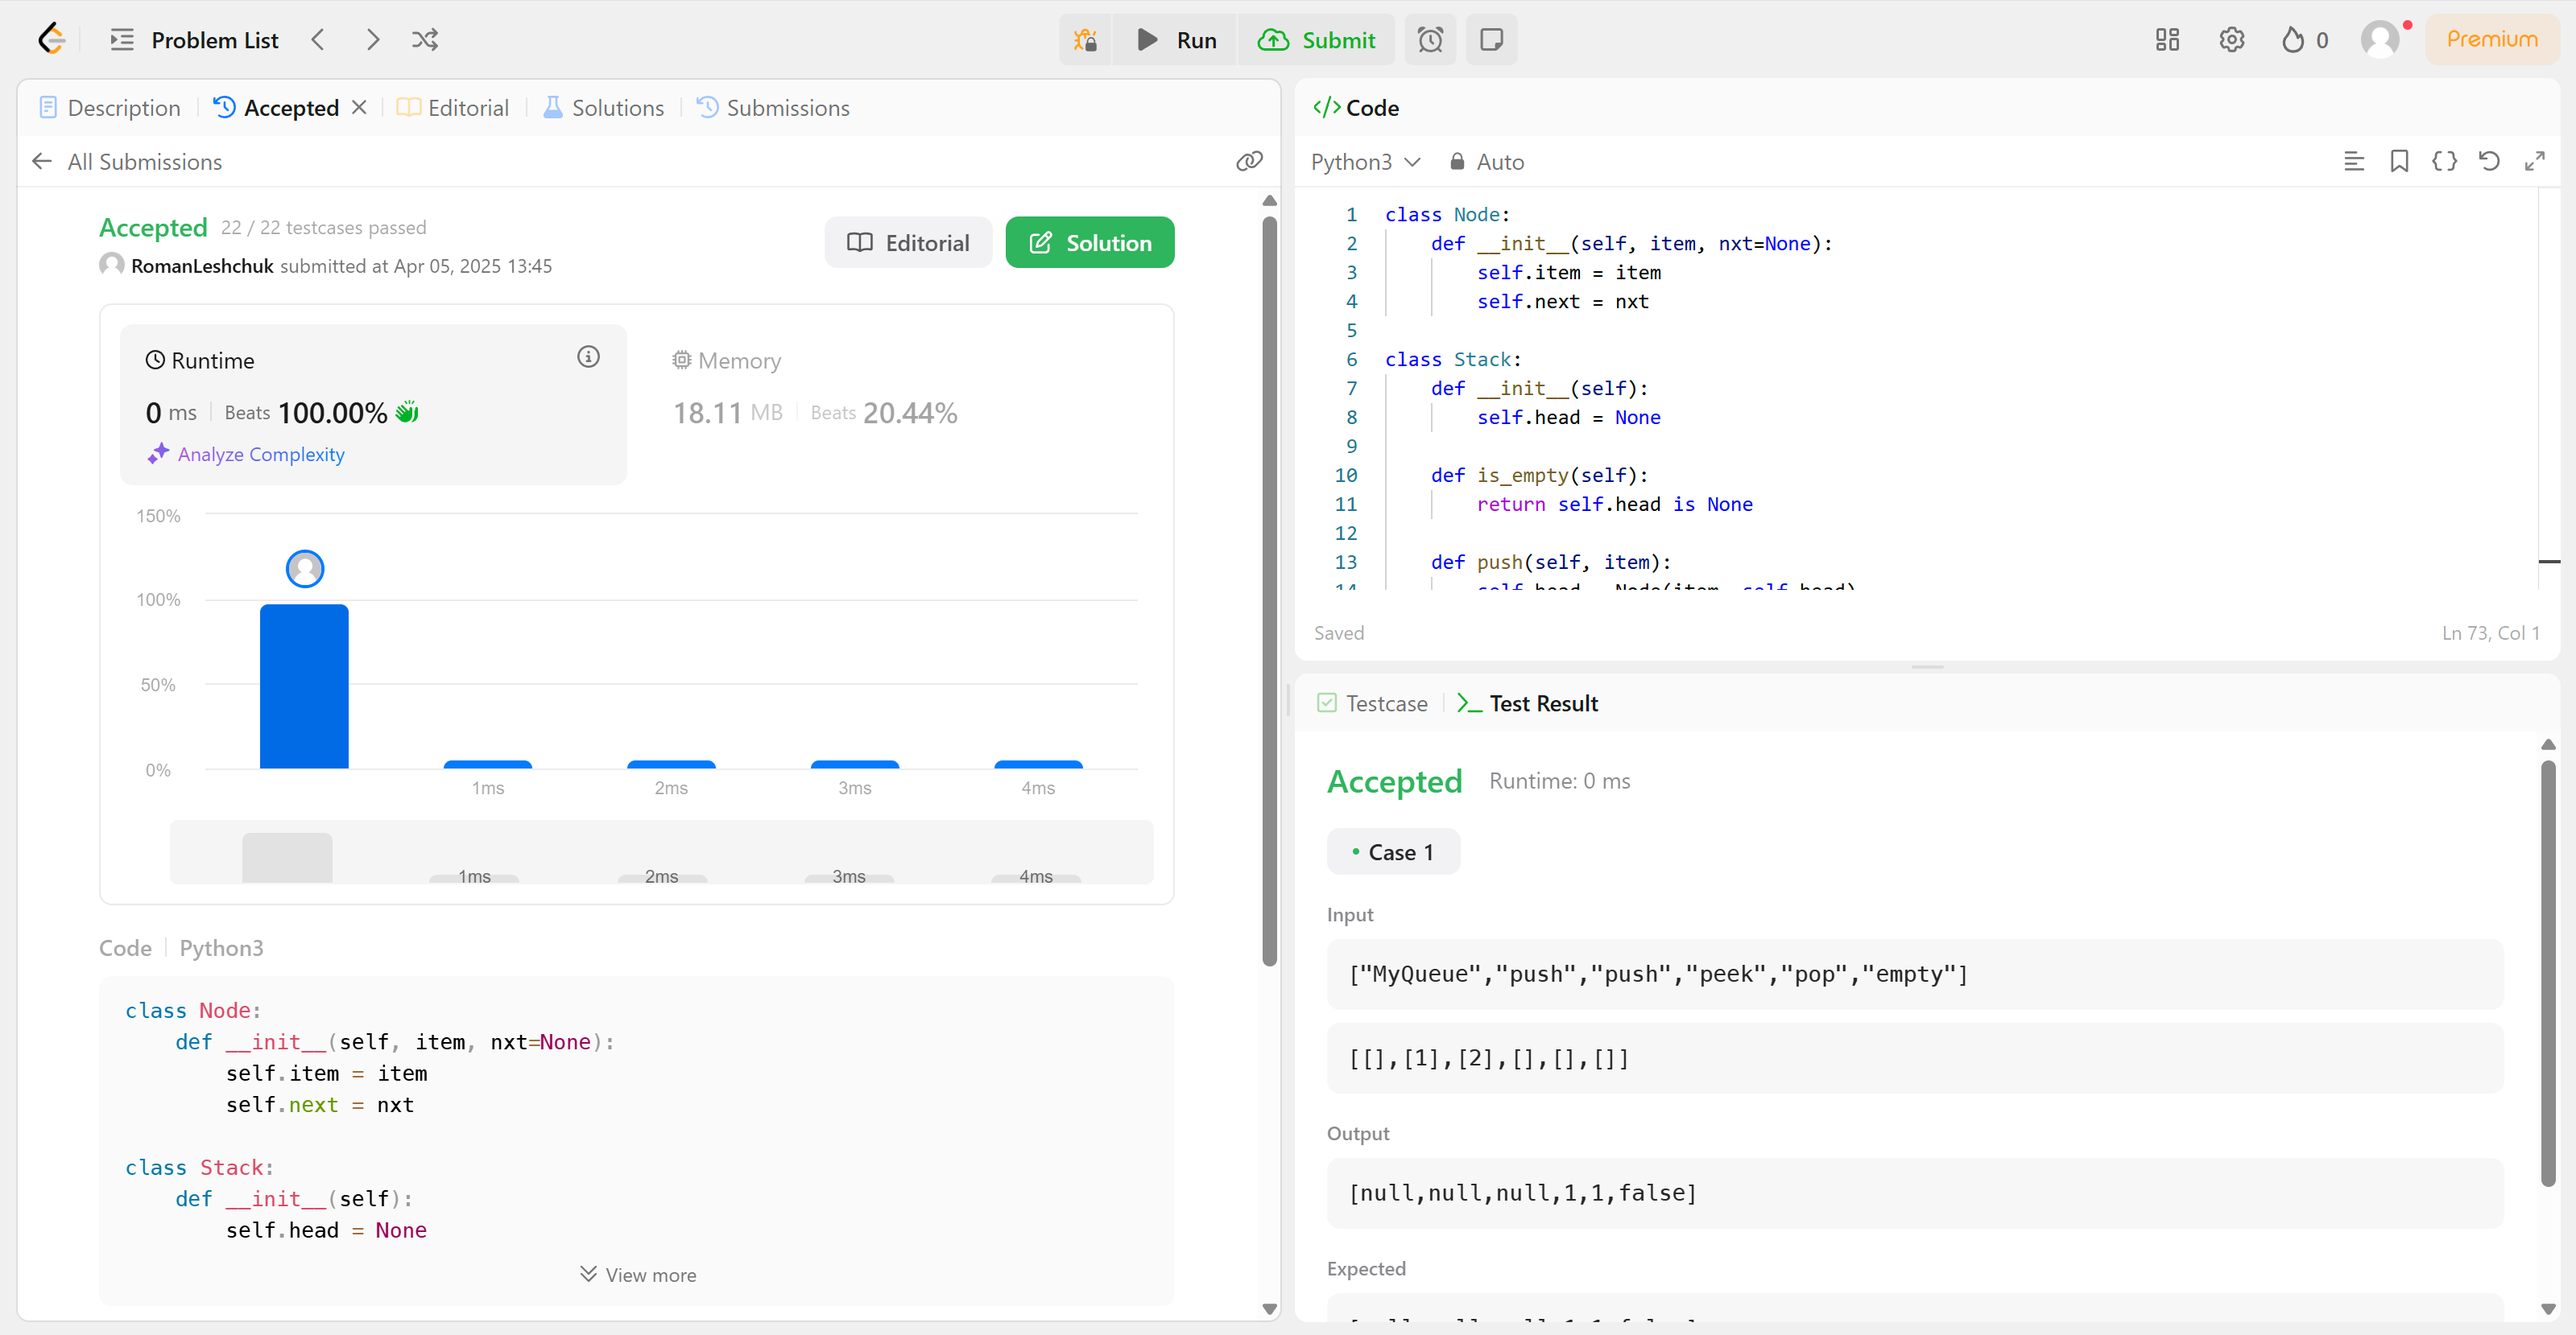
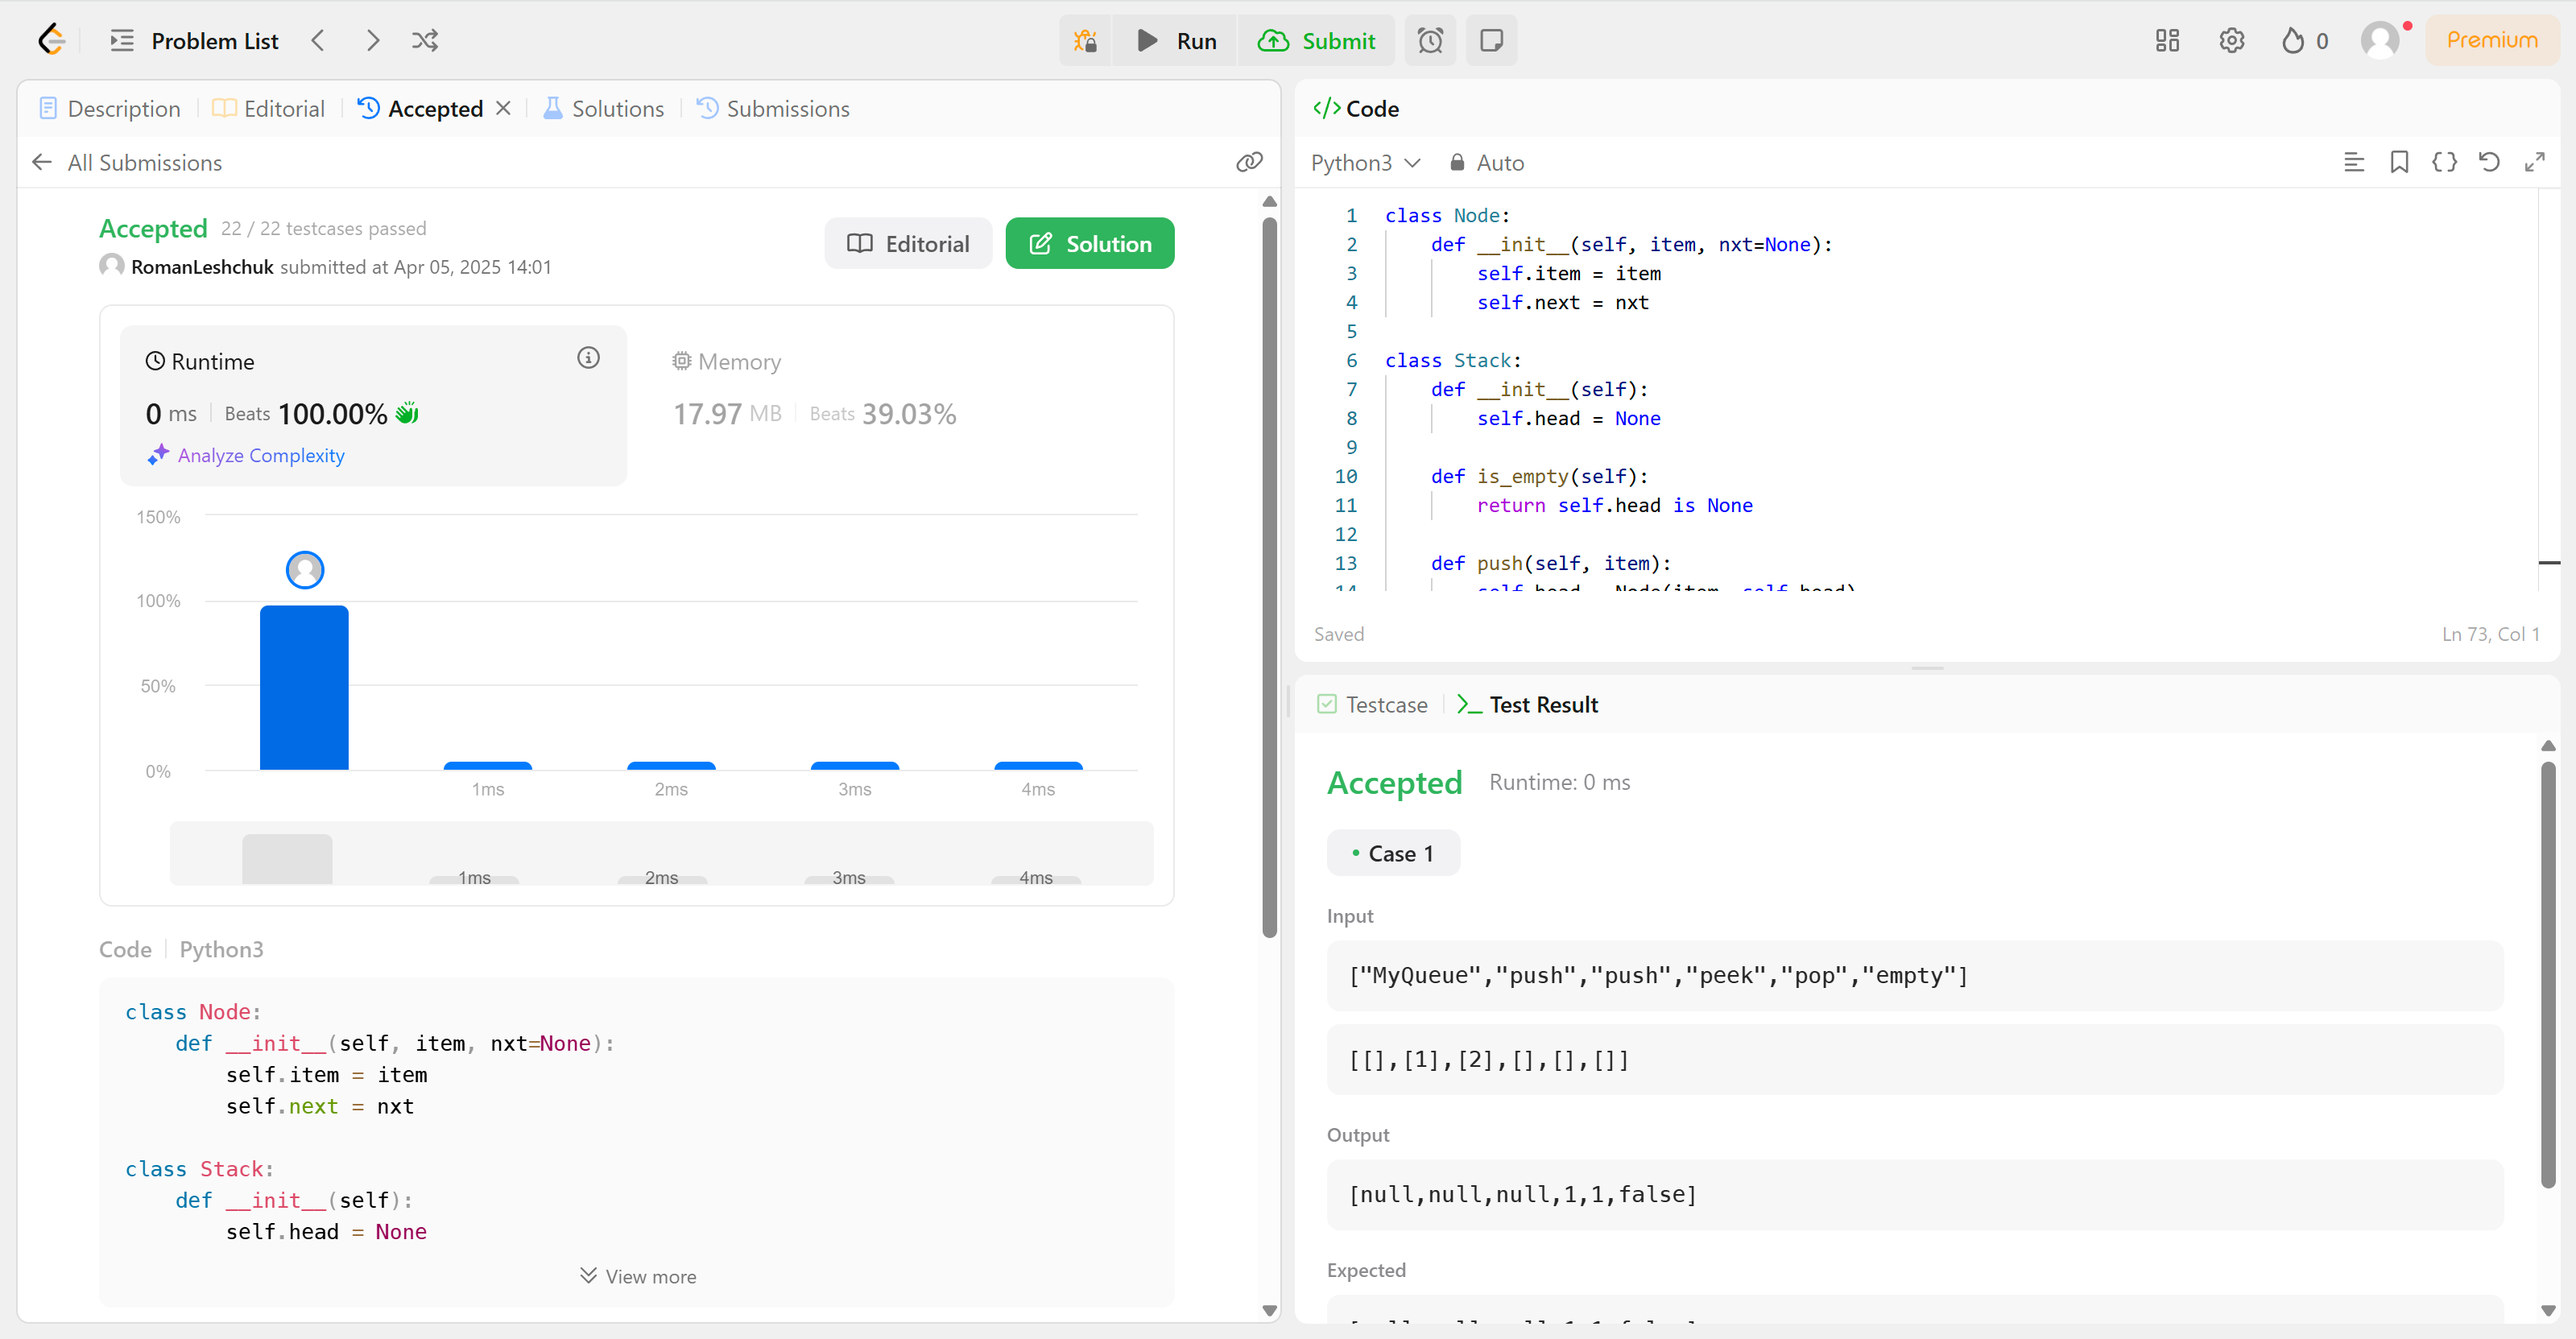
Small refactoring in queue implementation using stack, also retested (changed screenshot)

diff --git a/QueueUsingStacks/MyQueue.py b/QueueUsingStacks/MyQueue.py
@@ -69,4 +69,4 @@ class MyQueue:
         return res
 
     def empty(self) -> bool:
-        return len(self._data_stack) == 0
+        return self._data_stack.is_empty()
